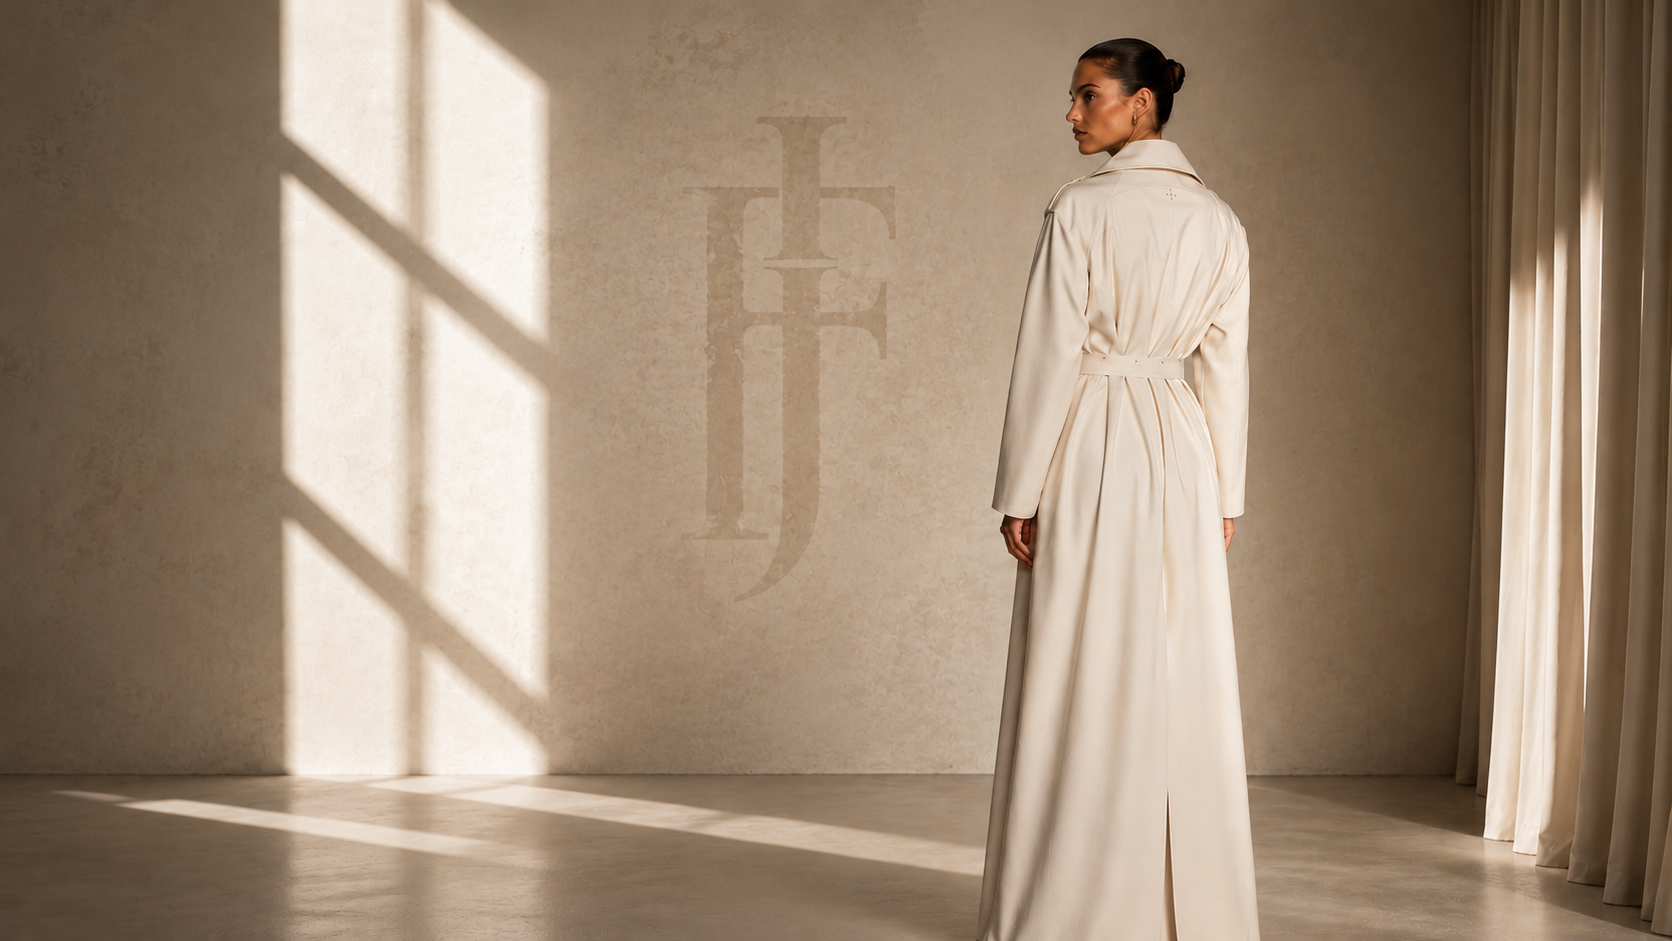
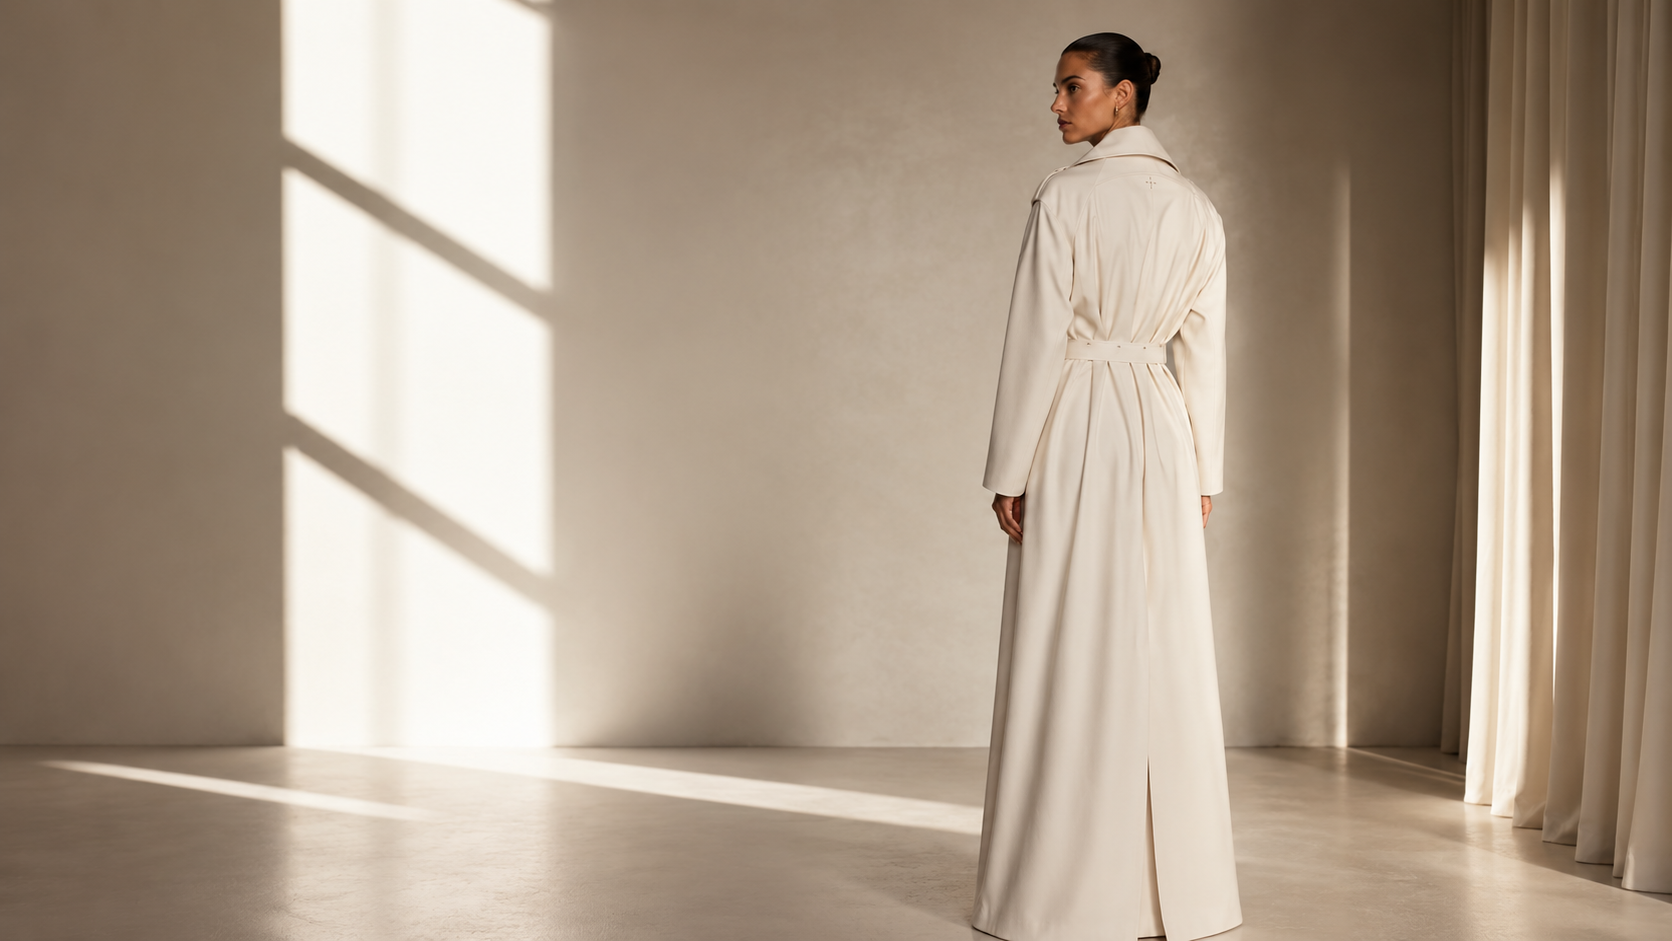
Restored v10: refactor: update video transition to fade to black then reveal static image

diff --git a/components/hero-section.tsx b/components/hero-section.tsx
@@ -3,7 +3,7 @@
 import Image from "next/image"
 import { motion, animate, useMotionValue } from "framer-motion"
 import { useLang } from "@/lib/i18n"
-import { useRef, useEffect } from "react"
+import { useRef, useEffect, useState } from "react"
 
 const VIDEO_SRC = "/videos/Video-Object-Remover-1780510099782.webm"
 // Seconds before end to start fading to black
@@ -34,6 +34,7 @@ export default function HeroSection() {
   const blackOpacity = useMotionValue(0)
   // Static image opacity: 0 = hidden, 1 = visible
   const imageOpacity = useMotionValue(0)
+  const [textVisible, setTextVisible] = useState(false)
   const fadingRef = useRef(false)
 
   useEffect(() => {
@@ -59,6 +60,10 @@ export default function HeroSection() {
             animate(blackOpacity, 0, {
               duration: 1.6,
               ease: "easeOut",
+              onComplete: () => {
+                // Step 4: reveal text
+                setTextVisible(true)
+              },
             })
           },
         })
@@ -71,6 +76,7 @@ export default function HeroSection() {
       fadingRef.current = true
       imageOpacity.set(1)
       animate(blackOpacity, 0, { duration: 1.2, ease: "easeOut" })
+      setTextVisible(true)
     }
 
     video.addEventListener("timeupdate", onTimeUpdate)
@@ -90,7 +96,7 @@ export default function HeroSection() {
       {/* ── STATIC IMAGE LAYER — sits below everything, revealed after black fade ── */}
       <motion.div className="absolute inset-0" style={{ opacity: imageOpacity }}>
         <Image
-          src="/hero-still.png"
+          src="/hero-image.png"
           alt="Maison Jacques Fath — Timeless French Elegance"
           fill
           className="object-cover object-top"
@@ -126,13 +132,13 @@ export default function HeroSection() {
 
       {/* ── BLACK OVERLAY — fades in then out for cinematic transition ── */}
       <motion.div
-        className="absolute inset-0 pointer-events-none z-[5]"
+        className="absolute inset-0 pointer-events-none"
         style={{ opacity: blackOpacity, backgroundColor: "#000" }}
       />
 
       {/* ── MONOGRAM (always visible) ─────────────────────────── */}
       <motion.div
-        className="absolute top-0 left-0 pt-24 pl-8 md:pl-14 pointer-events-none z-20"
+        className="absolute top-0 left-0 pt-24 pl-8 md:pl-14 pointer-events-none z-10"
         variants={fadeIn(0.3)}
         initial="hidden"
         animate="visible"
@@ -154,11 +160,11 @@ export default function HeroSection() {
         />
       </motion.div>
 
-      {/* ── TEXT BLOCK — always visible ───────────────────────── */}
+      {/* ── TEXT BLOCK — appears after video ends ─────────────── */}
       <motion.div
-        className="absolute bottom-0 left-0 pb-14 pl-8 md:pl-14 pr-8 max-w-md z-20"
+        className="absolute bottom-0 left-0 pb-14 pl-8 md:pl-14 pr-8 max-w-md z-10"
         initial="hidden"
-        animate="visible"
+        animate={textVisible ? "visible" : "hidden"}
       >
         <motion.p
           variants={fadeUp(0)}
